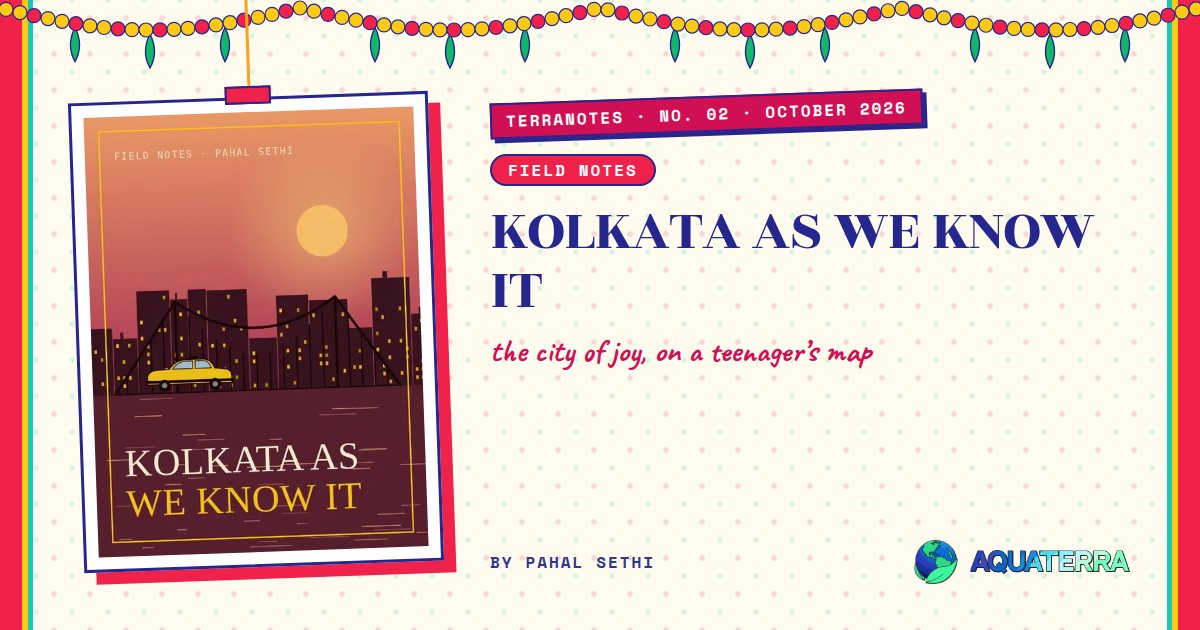
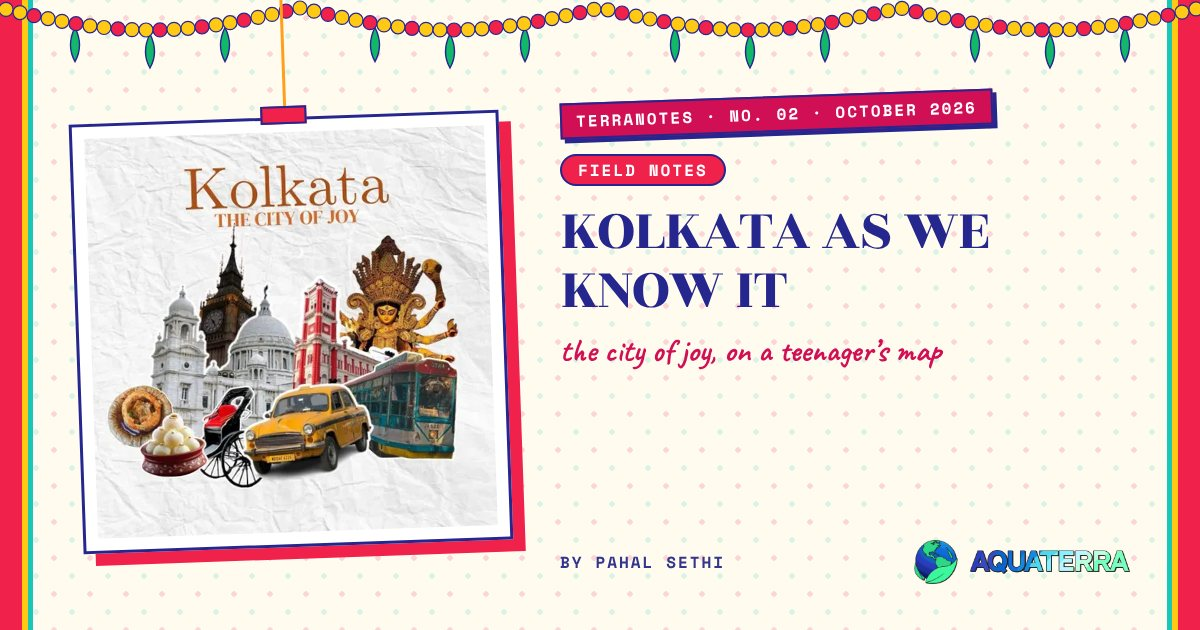
Kolkata As We Know It: its real cover
Replaces the drawn stand-in (dropped from tools/art/oct26.mjs, with the kit pieces only it used) with the
team's square collage, kept square; new card/page WebP copies, its link preview and October's edition
preview; alt text to match.

Claude-Session: https://claude.ai/code/session_01JJ7DDSYoAJJLu1s6gMc7xF

Changed region(s): [[0.0617, 0.0, 0.925, 0.9349]]

diff --git a/src/editions/oct26/articles.js b/src/editions/oct26/articles.js
@@ -17,9 +17,9 @@ export const TAGS = {
 };
 
 // The writers' pieces, as they sent them (a poem keeps its line breaks, \n, inside each stanza; numbered headings keep
-// their words, the page numbers them). The deks and cover descriptions are the editors'; Whispers in the Weave has
-// its real cover, the others are drawn stand-ins (tools/art/oct26.mjs) until real ones come; Aarav's poem has none
-// yet (cover: '', the placeholder shows).
+// their words, the page numbers them). The deks and cover descriptions are the editors'; Whispers in the Weave and
+// Kolkata As We Know It have their real covers, the others are drawn stand-ins (tools/art/oct26.mjs) until real ones
+// come; Aarav's poem has none yet (cover: '', the placeholder shows).
 export const ARTICLES = [
   {
     slug: "whispers-in-the-weave",
@@ -46,7 +46,7 @@ export const ARTICLES = [
     title: "Kolkata As We Know It",
     dek: "the city of joy, on a teenager’s map",
     cover: '/editions/oct26/articles/kolkata-as-we-know-it/cover.jpg',
-    alt: "the Howrah Bridge over the river, with a yellow taxi below",
+    alt: "a collage under \"Kolkata, the city of joy\": the Victoria Memorial, a clock tower, the red-and-white GPO, Durga Maa, a tram, a yellow Ambassador taxi, a hand-pulled rickshaw, rosogollas and phuchka",
     author: "Pahal Sethi",
     date: 'Oct 2026',
     readTime: '3',

diff --git a/CLAUDE.md b/CLAUDE.md
@@ -219,7 +219,7 @@ and its A/B/C marks a dhunuchi, a lantern and a firework (`Dhunuchi.jsx`, `WORDS
 legend (`DhakPlayers.jsx`, `TEAM_NOTE`), and Buddy's games are re-dressed (`games.js`, `GAME_SKIN`; their names in
 `data/games.js`): Snake is Durga Maa chasing demon faces with a marigold garland for a tail, Fling a bow and arrow at
 demon faces. The illustrations' own colours are in its `look.js` `art`. Pujo, Diwali and festive-feeling words; the
-writers' five articles (four of them drawn stand-in covers) and eight photos (seven of them drawn stand-ins). A new edition starts from a copy of the newest look and changes the values; its own CSS and
+writers' five articles (three of them drawn stand-in covers) and eight photos (seven of them drawn stand-ins). A new edition starts from a copy of the newest look and changes the values; its own CSS and
 doodles are registered in `src/editions/pages.js` (`EDITION_CSS`, `DECOR`, `TEAM_NOTE` for a secret by the team legend: under it on web, beside it on phones; `HANGERS`, `WALL_DECOR`, `WORDS_ART` and `GAME_SKIN` to dress the article wire, the photo wall, the words game and Buddy's games; `LAYOUT` switches on newer layouts of the shared home sections per edition, so older ones keep theirs: copy the newest edition's entry).
 Use the variables, nothing else (the look lists a few more, for the photo wall, dark panels and details).
 
